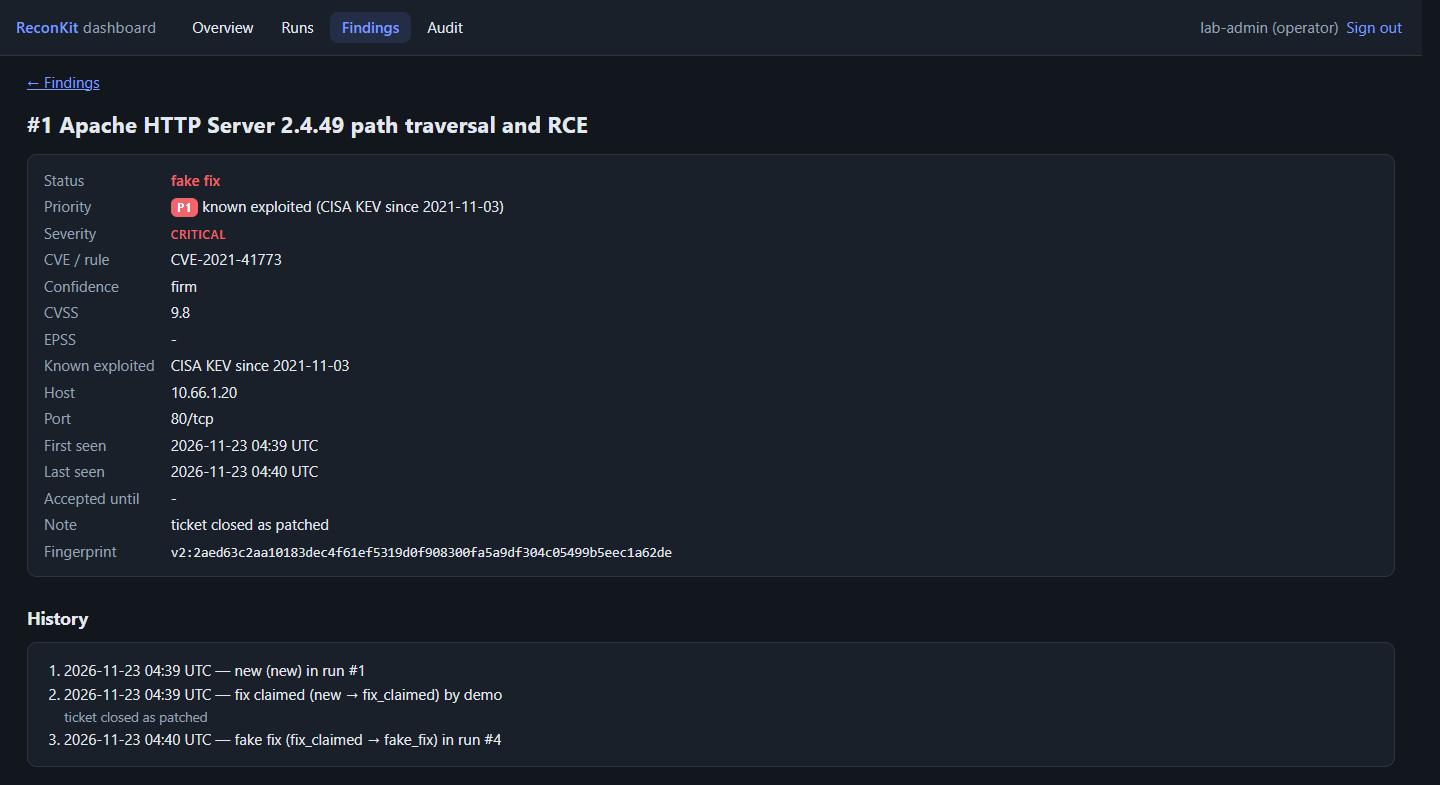
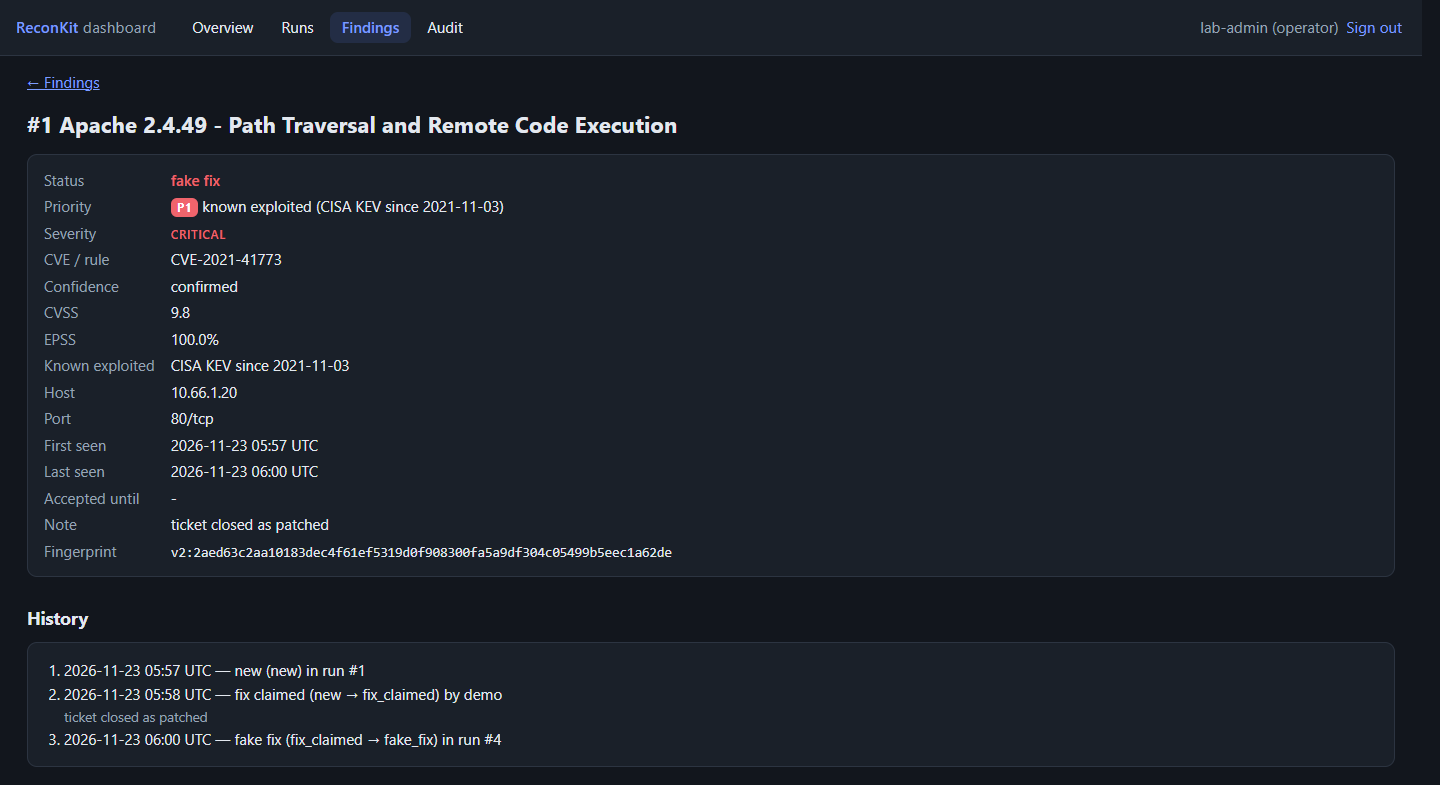
docs: lab with nuclei, check_rate, new screenshots; phase 4 done

diff --git a/TASKS.md b/TASKS.md
@@ -126,6 +126,8 @@ thật (nuclei 3.11.1, templates 10.5.2, subfinder 2.17.0), sửa những gì ch
 - [x] `chore/docker-tools` — nuclei, subfinder, templates trong image: ghim phiên bản + SHA-256
       từ file checksums chính thức (`docker/tools.lock`), `python docker/tools.py update`, chỉ lấy
       đúng binary, giải nén an toàn; CI kiểm phiên bản trong image khớp lock. Image 182 → 401 MB.
-- [ ] `feat/lab-nuclei` — Apache trong lab khai thác được thật để nuclei xác nhận
-      CVE-2021-41773; lab bật nuclei; CI kiểm `confirmed`.
+- [x] `feat/lab-nuclei` — Apache trong lab cấu hình khai thác được (như vulhub) để nuclei xác
+      nhận CVE-2021-41773; target lab bật nuclei với profile `lab`; profile có `check_rate` riêng
+      (request/giây của nuclei) tách khỏi `max_rate` (gói/giây của nmap); `reconkit finding`
+      hiện độ tin cậy; CI kiểm `confirmed`, Terrapin và phiên bản templates trong run.
 

diff --git a/docs/KNOWN-GAPS.md b/docs/KNOWN-GAPS.md
@@ -361,6 +361,9 @@ Rà soát lần đầu: 2026-10-28 (trên `main` sau PR #6).
       đánh rơi ngày KEV / CVSS của NVD (Apache 2.4.49 bị xếp P2 thay vì P1).
     - discovery có giới hạn tên, phân giải song song, lọc wildcard DNS, ghi chú gộp (trước đây
       25.514 tên = 25.514 lượt DNS tuần tự và 25.514 dòng ghi chú).
+  - ✅ **`feat/lab-nuclei`**: lab có Apache khai thác được → nuclei xác nhận CVE-2021-41773 và
+    Terrapin; CI chạy cả lab với nuclei. `check_rate` tách khỏi `max_rate` (trước đây giới hạn
+    hợp với nuclei làm nmap quét đủ cổng chậm ~30 lần).
   - Còn lại:
     - **Không interactsh** → template phát hiện qua kênh ngoài (OAST: Log4Shell mù, SSRF mù…)
       không chạy. Thực tế: tự dựng máy chủ interactsh trong mạng của mình (`-iserver`, `-itoken`).
